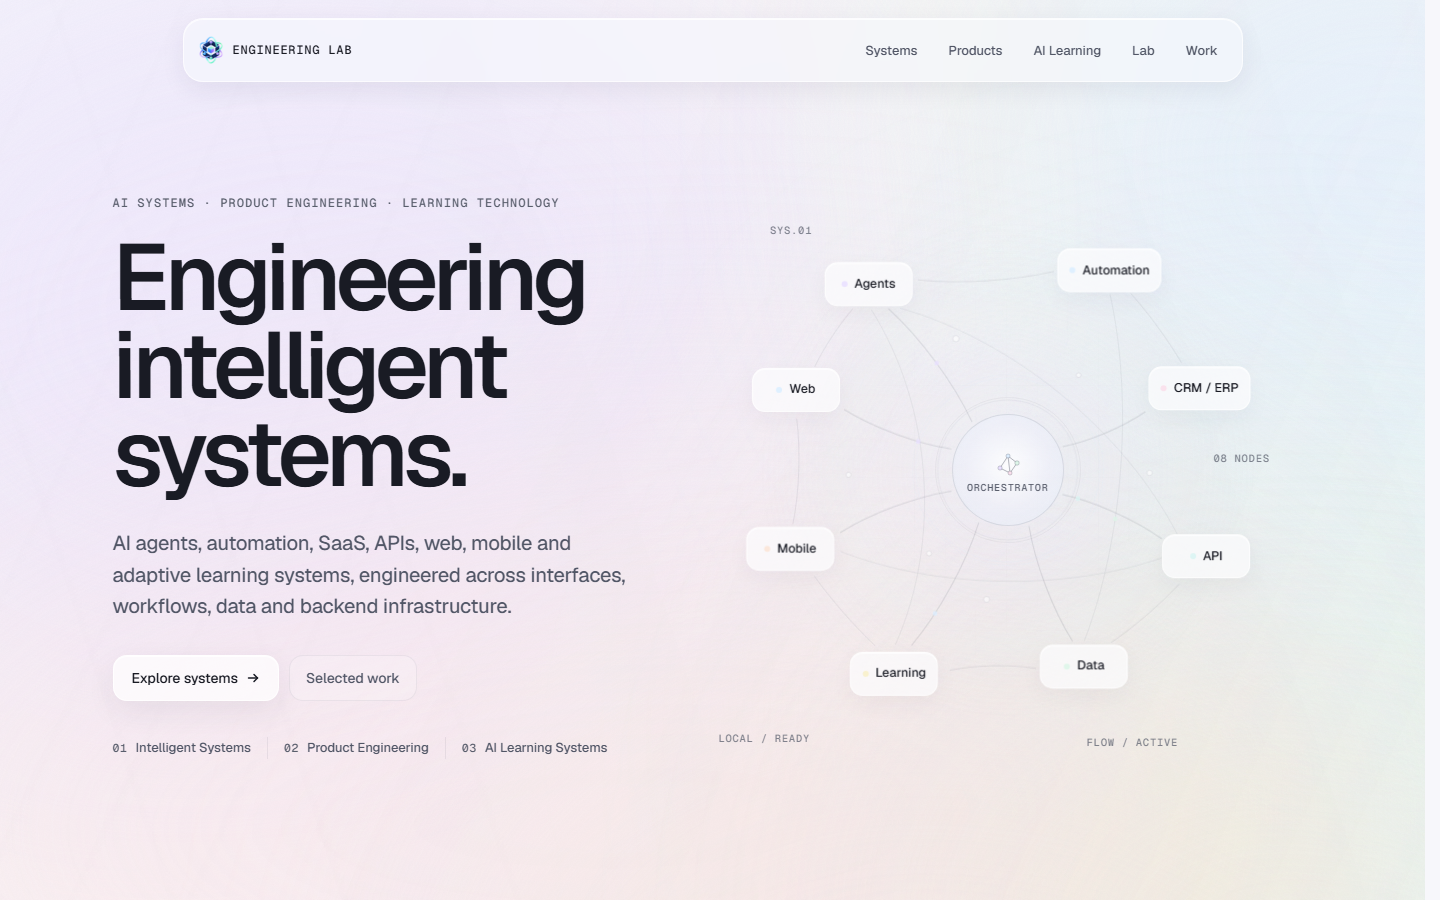
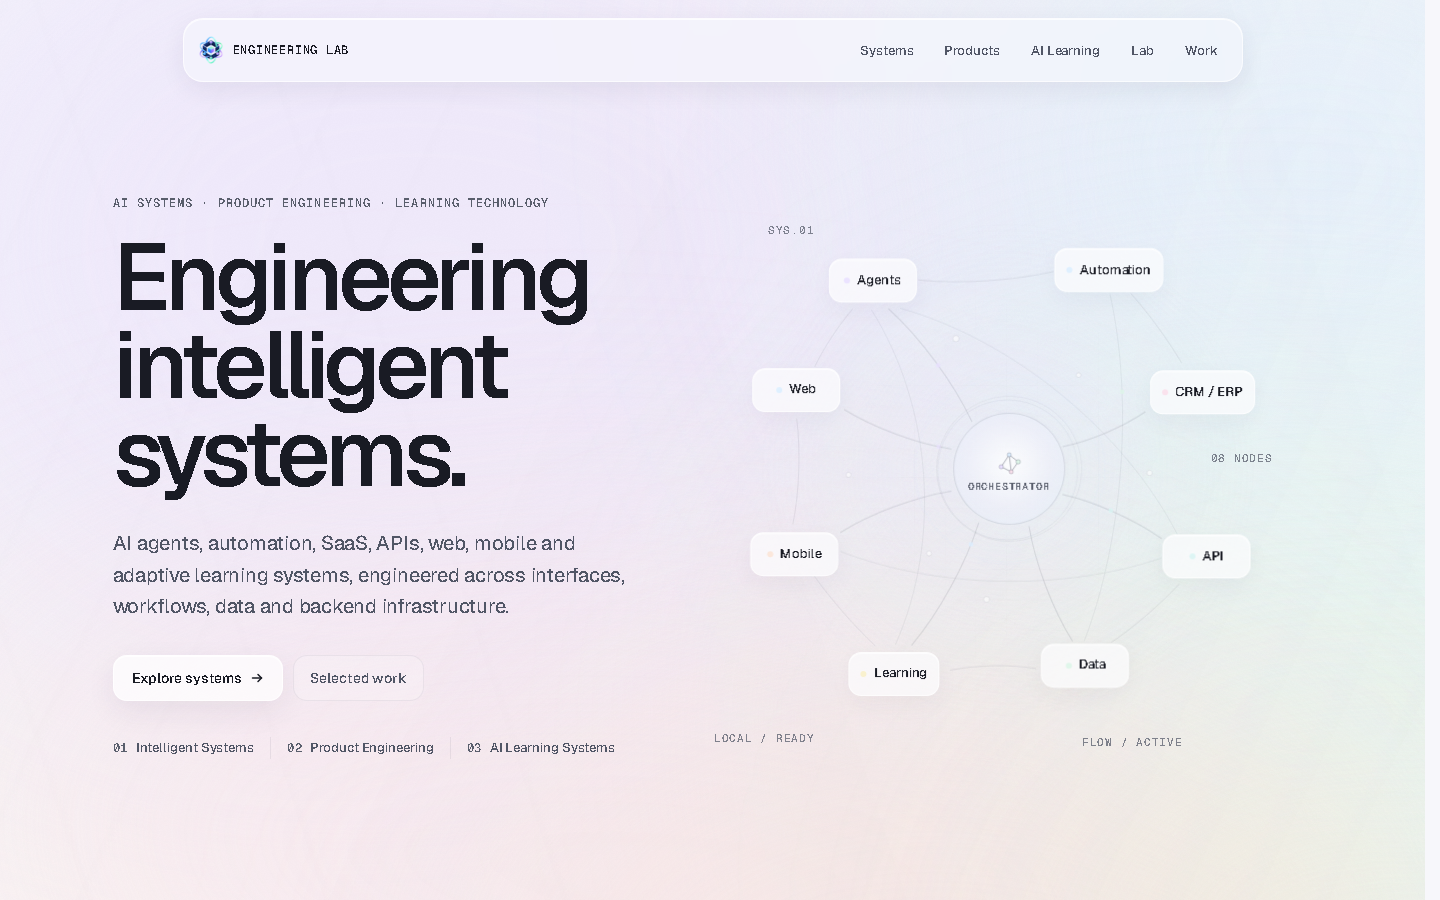
qa: record the public verification of the inbox
274 checks against production over HTTPS, and a refreshed screenshot from
the same run.

diff --git a/docs/QA_BASELINE.md b/docs/QA_BASELINE.md
@@ -1617,8 +1617,8 @@ the `implemented` flag behind it are deleted once all eleven modules exist.
 ## Stage 09C3.3 - Operations Inbox and CRM Workflow
 
 PASS. Harness: `qa/stage09c33-inbox.mjs`, **367 checks** with the domain probe
-in place and 289 without it, which is what runs against production: the two
-domain sections skip themselves when the fixture route is absent.
+in place and 274 against production, where the two domain sections skip
+themselves because the fixture route is not deployed.
 
 ### What it covers
 
